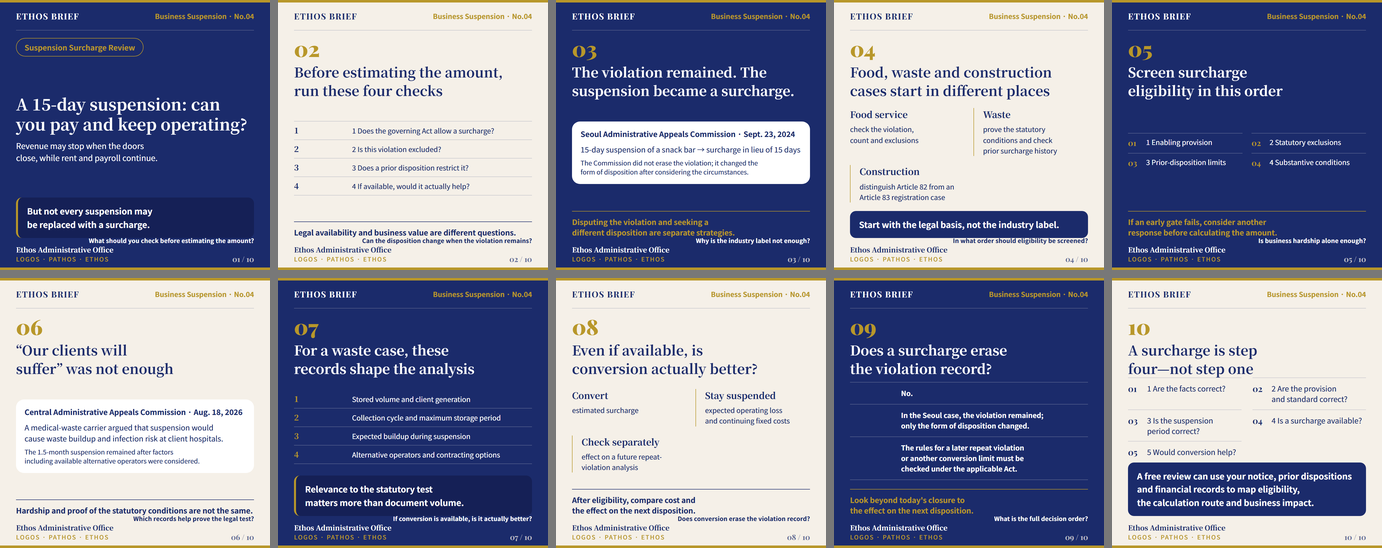
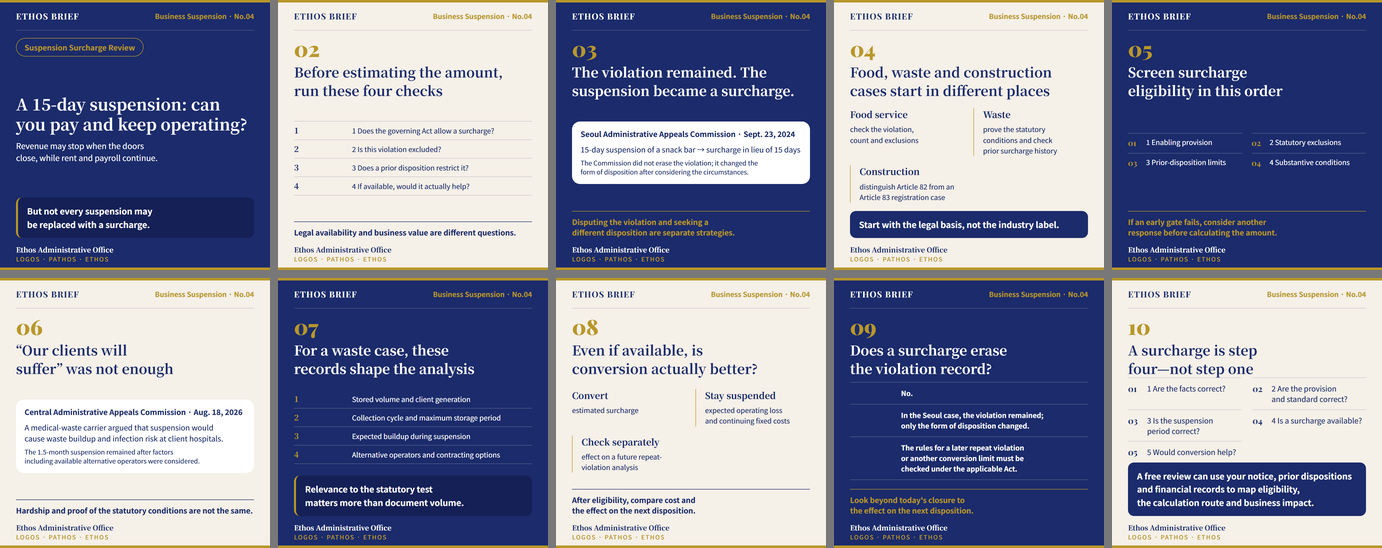
fix: hide card previews and page counts

diff --git a/content/SUSPENSION-SURCHARGE-04/ko/card_02.html b/content/SUSPENSION-SURCHARGE-04/ko/card_02.html
@@ -14,7 +14,7 @@
     <div class="z-main" data-zone="main"><div class="thresholds"><div class="threshold"><div class="threshold-key" data-role="label">1</div><div class="threshold-copy">① 근거법률에 과징금 규정이 있나요?</div></div><div class="threshold"><div class="threshold-key" data-role="label">2</div><div class="threshold-copy">② 이번 위반은 제외대상인가요?</div></div><div class="threshold"><div class="threshold-key" data-role="label">3</div><div class="threshold-copy">③ 과거 처분 때문에 제한되나요?</div></div><div class="threshold"><div class="threshold-key" data-role="label">4</div><div class="threshold-copy">④ 가능하다면 실제로 유리한가요?</div></div></div></div>
     <div class="z-take" data-zone="take"><div class="editorial-close" data-role="takeaway">가능성과 실익은 서로 다른 질문입니다.</div></div>
   </div>
-  <div class="page-turn" data-role="note">위반이 인정돼도 처분형태가 바뀔까요?</div>
-  <div class="ftr"><div class="org" data-frame="org">에토스 행정사사무소</div><div class="tagl" data-frame="tagline">LOGOS · PATHOS · ETHOS</div><div class="pg" data-frame="page">02 / 10</div></div>
+  
+  <div class="ftr"><div class="org" data-frame="org">에토스 행정사사무소</div><div class="tagl" data-frame="tagline">LOGOS · PATHOS · ETHOS</div><div class="pg" data-frame="page" aria-hidden="true"></div></div>
   <div class="gold-bottom" data-frame="gold-bottom"></div>
 </div></body></html>

diff --git a/content/SUSPENSION-SURCHARGE-04/en/card_02.html b/content/SUSPENSION-SURCHARGE-04/en/card_02.html
@@ -14,7 +14,7 @@
     <div class="z-main" data-zone="main"><div class="thresholds"><div class="threshold"><div class="threshold-key" data-role="label">1</div><div class="threshold-copy">1 Does the governing Act allow a surcharge?</div></div><div class="threshold"><div class="threshold-key" data-role="label">2</div><div class="threshold-copy">2 Is this violation excluded?</div></div><div class="threshold"><div class="threshold-key" data-role="label">3</div><div class="threshold-copy">3 Does a prior disposition restrict it?</div></div><div class="threshold"><div class="threshold-key" data-role="label">4</div><div class="threshold-copy">4 If available, would it actually help?</div></div></div></div>
     <div class="z-take" data-zone="take"><div class="editorial-close" data-role="takeaway">Legal availability and business value are different questions.</div></div>
   </div>
-  <div class="page-turn" data-role="note">Can the disposition change when the violation remains?</div>
-  <div class="ftr"><div class="org" data-frame="org">Ethos Administrative Office</div><div class="tagl" data-frame="tagline">LOGOS · PATHOS · ETHOS</div><div class="pg" data-frame="page">02 / 10</div></div>
+  
+  <div class="ftr"><div class="org" data-frame="org">Ethos Administrative Office</div><div class="tagl" data-frame="tagline">LOGOS · PATHOS · ETHOS</div><div class="pg" data-frame="page" aria-hidden="true"></div></div>
   <div class="gold-bottom" data-frame="gold-bottom"></div>
 </div></body></html>

diff --git a/content/SUSPENSION-SURCHARGE-04/en/card_07.html b/content/SUSPENSION-SURCHARGE-04/en/card_07.html
@@ -14,7 +14,7 @@
     <div class="z-main" data-zone="main"><div class="thresholds"><div class="threshold"><div class="threshold-key" data-role="label">1</div><div class="threshold-copy">Stored volume and client generation</div></div><div class="threshold"><div class="threshold-key" data-role="label">2</div><div class="threshold-copy">Collection cycle and maximum storage period</div></div><div class="threshold"><div class="threshold-key" data-role="label">3</div><div class="threshold-copy">Expected buildup during suspension</div></div><div class="threshold"><div class="threshold-key" data-role="label">4</div><div class="threshold-copy">Alternative operators and contracting options</div></div></div></div>
     <div class="z-take" data-zone="take"><div class="take" data-role="takeaway">Relevance to the statutory test matters more than document volume.</div></div>
   </div>
-  <div class="page-turn" data-role="note">If conversion is available, is it actually better?</div>
-  <div class="ftr"><div class="org" data-frame="org">Ethos Administrative Office</div><div class="tagl" data-frame="tagline">LOGOS · PATHOS · ETHOS</div><div class="pg" data-frame="page">07 / 10</div></div>
+  
+  <div class="ftr"><div class="org" data-frame="org">Ethos Administrative Office</div><div class="tagl" data-frame="tagline">LOGOS · PATHOS · ETHOS</div><div class="pg" data-frame="page" aria-hidden="true"></div></div>
   <div class="gold-bottom" data-frame="gold-bottom"></div>
 </div></body></html>

diff --git a/content/SUSPENSION-SURCHARGE-04/ko/card_09.html b/content/SUSPENSION-SURCHARGE-04/ko/card_09.html
@@ -14,7 +14,7 @@
     <div class="z-main" data-zone="main"><div class="rule-list"><div class="rule-item"><div class="rule-key" data-role="subheading"></div><div class="rule-copy">그렇지 않습니다.</div></div><div class="rule-item"><div class="rule-key" data-role="subheading"></div><div class="rule-copy">서울 사건에서도 위반사실은 인정됐고, 달라진 것은 처분형태였습니다.</div></div><div class="rule-item"><div class="rule-key" data-role="subheading"></div><div class="rule-copy">같은 위반이 다시 생겼을 때의 처분기준과 전환 제한은 해당 법률에 따라 따로 확인해야 합니다.</div></div></div></div>
     <div class="z-take" data-zone="take"><div class="editorial-close" data-role="takeaway">당장의 영업정지뿐 아니라 다음 처분에 미칠 영향까지 보세요.</div></div>
   </div>
-  <div class="page-turn" data-role="note">최종 결정은 어떤 순서로 해야 할까요?</div>
-  <div class="ftr"><div class="org" data-frame="org">에토스 행정사사무소</div><div class="tagl" data-frame="tagline">LOGOS · PATHOS · ETHOS</div><div class="pg" data-frame="page">09 / 10</div></div>
+  
+  <div class="ftr"><div class="org" data-frame="org">에토스 행정사사무소</div><div class="tagl" data-frame="tagline">LOGOS · PATHOS · ETHOS</div><div class="pg" data-frame="page" aria-hidden="true"></div></div>
   <div class="gold-bottom" data-frame="gold-bottom"></div>
 </div></body></html>

diff --git a/content/SUSPENSION-SURCHARGE-04/ko/card_07.html b/content/SUSPENSION-SURCHARGE-04/ko/card_07.html
@@ -14,7 +14,7 @@
     <div class="z-main" data-zone="main"><div class="thresholds"><div class="threshold"><div class="threshold-key" data-role="label">1</div><div class="threshold-copy">보관량·거래처별 발생량</div></div><div class="threshold"><div class="threshold-key" data-role="label">2</div><div class="threshold-copy">반출주기·최대 보관기간</div></div><div class="threshold"><div class="threshold-key" data-role="label">3</div><div class="threshold-copy">영업정지 중 예상 적체량</div></div><div class="threshold"><div class="threshold-key" data-role="label">4</div><div class="threshold-copy">대체업체·대체계약 가능성</div></div></div></div>
     <div class="z-take" data-zone="take"><div class="take" data-role="takeaway">자료의 양보다 법정 요건과 연결되는지가 중요합니다.</div></div>
   </div>
-  <div class="page-turn" data-role="note">전환할 수 있으면 정말 유리할까요?</div>
-  <div class="ftr"><div class="org" data-frame="org">에토스 행정사사무소</div><div class="tagl" data-frame="tagline">LOGOS · PATHOS · ETHOS</div><div class="pg" data-frame="page">07 / 10</div></div>
+  
+  <div class="ftr"><div class="org" data-frame="org">에토스 행정사사무소</div><div class="tagl" data-frame="tagline">LOGOS · PATHOS · ETHOS</div><div class="pg" data-frame="page" aria-hidden="true"></div></div>
   <div class="gold-bottom" data-frame="gold-bottom"></div>
 </div></body></html>

diff --git a/content/SUSPENSION-SURCHARGE-04/ko/card_04.html b/content/SUSPENSION-SURCHARGE-04/ko/card_04.html
@@ -14,7 +14,7 @@
     <div class="z-main" data-zone="main"><div class="split"><div class="split-col"><div class="split-title" data-role="subheading">음식점</div><div class="split-copy">과징금 규정이 있어도 위반유형·차수·제외대상을 확인</div></div><div class="split-col"><div class="split-title" data-role="subheading">폐기물</div><div class="split-copy">법정 전환요건과 과거 과징금 처분까지 확인</div></div><div class="split-col"><div class="split-title" data-role="subheading">건설업</div><div class="split-copy">제82조 처분인지 제83조 등록기준 문제인지 구분</div></div></div></div>
     <div class="z-take" data-zone="take"><div class="take" data-role="takeaway">업종명보다 처분근거 조항을 먼저 보세요.</div></div>
   </div>
-  <div class="page-turn" data-role="note">전환 가능성은 어떤 순서로 걸러낼까요?</div>
-  <div class="ftr"><div class="org" data-frame="org">에토스 행정사사무소</div><div class="tagl" data-frame="tagline">LOGOS · PATHOS · ETHOS</div><div class="pg" data-frame="page">04 / 10</div></div>
+  
+  <div class="ftr"><div class="org" data-frame="org">에토스 행정사사무소</div><div class="tagl" data-frame="tagline">LOGOS · PATHOS · ETHOS</div><div class="pg" data-frame="page" aria-hidden="true"></div></div>
   <div class="gold-bottom" data-frame="gold-bottom"></div>
 </div></body></html>

diff --git a/content/SUSPENSION-SURCHARGE-04/ko/card_05.html b/content/SUSPENSION-SURCHARGE-04/ko/card_05.html
@@ -14,7 +14,7 @@
     <div class="z-main" data-zone="main"><div class="process-steps"><div class="process-step"><div class="process-num" data-decor>01</div><div class="process-copy">1 근거 규정</div></div><div class="process-step"><div class="process-num" data-decor>02</div><div class="process-copy">2 제외대상</div></div><div class="process-step"><div class="process-num" data-decor>03</div><div class="process-copy">3 과거 처분 제한</div></div><div class="process-step"><div class="process-num" data-decor>04</div><div class="process-copy">4 법정 실질요건</div></div></div></div>
     <div class="z-take" data-zone="take"><div class="editorial-close" data-role="takeaway">앞 단계에서 막히면 금액 계산보다 다른 대응방향을 먼저 검토합니다.</div></div>
   </div>
-  <div class="page-turn" data-role="note">손해를 주장하는 것만으로 충분할까요?</div>
-  <div class="ftr"><div class="org" data-frame="org">에토스 행정사사무소</div><div class="tagl" data-frame="tagline">LOGOS · PATHOS · ETHOS</div><div class="pg" data-frame="page">05 / 10</div></div>
+  
+  <div class="ftr"><div class="org" data-frame="org">에토스 행정사사무소</div><div class="tagl" data-frame="tagline">LOGOS · PATHOS · ETHOS</div><div class="pg" data-frame="page" aria-hidden="true"></div></div>
   <div class="gold-bottom" data-frame="gold-bottom"></div>
 </div></body></html>

diff --git a/content/SUSPENSION-SURCHARGE-04/en/card_05.html b/content/SUSPENSION-SURCHARGE-04/en/card_05.html
@@ -14,7 +14,7 @@
     <div class="z-main" data-zone="main"><div class="process-steps"><div class="process-step"><div class="process-num" data-decor>01</div><div class="process-copy">1 Enabling provision</div></div><div class="process-step"><div class="process-num" data-decor>02</div><div class="process-copy">2 Statutory exclusions</div></div><div class="process-step"><div class="process-num" data-decor>03</div><div class="process-copy">3 Prior-disposition limits</div></div><div class="process-step"><div class="process-num" data-decor>04</div><div class="process-copy">4 Substantive conditions</div></div></div></div>
     <div class="z-take" data-zone="take"><div class="editorial-close" data-role="takeaway">If an early gate fails, consider another response before calculating the amount.</div></div>
   </div>
-  <div class="page-turn" data-role="note">Is business hardship alone enough?</div>
-  <div class="ftr"><div class="org" data-frame="org">Ethos Administrative Office</div><div class="tagl" data-frame="tagline">LOGOS · PATHOS · ETHOS</div><div class="pg" data-frame="page">05 / 10</div></div>
+  
+  <div class="ftr"><div class="org" data-frame="org">Ethos Administrative Office</div><div class="tagl" data-frame="tagline">LOGOS · PATHOS · ETHOS</div><div class="pg" data-frame="page" aria-hidden="true"></div></div>
   <div class="gold-bottom" data-frame="gold-bottom"></div>
 </div></body></html>

diff --git a/content/SUSPENSION-SURCHARGE-04/ko/card_08.html b/content/SUSPENSION-SURCHARGE-04/ko/card_08.html
@@ -14,7 +14,7 @@
     <div class="z-main" data-zone="main"><div class="split"><div class="split-col"><div class="split-title" data-role="subheading">과징금 전환 시</div><div class="split-copy">예상 과징금</div></div><div class="split-col"><div class="split-title" data-role="subheading">영업정지 유지 시</div><div class="split-copy">예상 영업손실 및 계속 나가는 고정비</div></div><div class="split-col"><div class="split-title" data-role="subheading">별도 확인</div><div class="split-copy">향후 반복위반 판단에 미칠 영향</div></div></div></div>
     <div class="z-take" data-zone="take"><div class="editorial-close" data-role="takeaway">가능하다는 결론 뒤에 비용과 다음 처분까지 비교하세요.</div></div>
   </div>
-  <div class="page-turn" data-role="note">과징금으로 바뀌면 위반기록도 없어질까요?</div>
-  <div class="ftr"><div class="org" data-frame="org">에토스 행정사사무소</div><div class="tagl" data-frame="tagline">LOGOS · PATHOS · ETHOS</div><div class="pg" data-frame="page">08 / 10</div></div>
+  
+  <div class="ftr"><div class="org" data-frame="org">에토스 행정사사무소</div><div class="tagl" data-frame="tagline">LOGOS · PATHOS · ETHOS</div><div class="pg" data-frame="page" aria-hidden="true"></div></div>
   <div class="gold-bottom" data-frame="gold-bottom"></div>
 </div></body></html>

diff --git a/content/SUSPENSION-SURCHARGE-04/en/card_09.html b/content/SUSPENSION-SURCHARGE-04/en/card_09.html
@@ -14,7 +14,7 @@
     <div class="z-main" data-zone="main"><div class="rule-list"><div class="rule-item"><div class="rule-key" data-role="subheading"></div><div class="rule-copy">No.</div></div><div class="rule-item"><div class="rule-key" data-role="subheading"></div><div class="rule-copy">In the Seoul case, the violation remained; only the form of disposition changed.</div></div><div class="rule-item"><div class="rule-key" data-role="subheading"></div><div class="rule-copy">The rules for a later repeat violation or another conversion limit must be checked under the applicable Act.</div></div></div></div>
     <div class="z-take" data-zone="take"><div class="editorial-close" data-role="takeaway">Look beyond today&#x27;s closure to the effect on the next disposition.</div></div>
   </div>
-  <div class="page-turn" data-role="note">What is the full decision order?</div>
-  <div class="ftr"><div class="org" data-frame="org">Ethos Administrative Office</div><div class="tagl" data-frame="tagline">LOGOS · PATHOS · ETHOS</div><div class="pg" data-frame="page">09 / 10</div></div>
+  
+  <div class="ftr"><div class="org" data-frame="org">Ethos Administrative Office</div><div class="tagl" data-frame="tagline">LOGOS · PATHOS · ETHOS</div><div class="pg" data-frame="page" aria-hidden="true"></div></div>
   <div class="gold-bottom" data-frame="gold-bottom"></div>
 </div></body></html>

diff --git a/content/SUSPENSION-SURCHARGE-04/en/card_04.html b/content/SUSPENSION-SURCHARGE-04/en/card_04.html
@@ -14,7 +14,7 @@
     <div class="z-main" data-zone="main"><div class="split"><div class="split-col"><div class="split-title" data-role="subheading">Food service</div><div class="split-copy">check the violation, count and exclusions</div></div><div class="split-col"><div class="split-title" data-role="subheading">Waste</div><div class="split-copy">prove the statutory conditions and check prior surcharge history</div></div><div class="split-col"><div class="split-title" data-role="subheading">Construction</div><div class="split-copy">distinguish Article 82 from an Article 83 registration case</div></div></div></div>
     <div class="z-take" data-zone="take"><div class="take" data-role="takeaway">Start with the legal basis, not the industry label.</div></div>
   </div>
-  <div class="page-turn" data-role="note">In what order should eligibility be screened?</div>
-  <div class="ftr"><div class="org" data-frame="org">Ethos Administrative Office</div><div class="tagl" data-frame="tagline">LOGOS · PATHOS · ETHOS</div><div class="pg" data-frame="page">04 / 10</div></div>
+  
+  <div class="ftr"><div class="org" data-frame="org">Ethos Administrative Office</div><div class="tagl" data-frame="tagline">LOGOS · PATHOS · ETHOS</div><div class="pg" data-frame="page" aria-hidden="true"></div></div>
   <div class="gold-bottom" data-frame="gold-bottom"></div>
 </div></body></html>

diff --git a/content/SUSPENSION-SURCHARGE-04/en/card_08.html b/content/SUSPENSION-SURCHARGE-04/en/card_08.html
@@ -14,7 +14,7 @@
     <div class="z-main" data-zone="main"><div class="split"><div class="split-col"><div class="split-title" data-role="subheading">Convert</div><div class="split-copy">estimated surcharge</div></div><div class="split-col"><div class="split-title" data-role="subheading">Stay suspended</div><div class="split-copy">expected operating loss and continuing fixed costs</div></div><div class="split-col"><div class="split-title" data-role="subheading">Check separately</div><div class="split-copy">effect on a future repeat-violation analysis</div></div></div></div>
     <div class="z-take" data-zone="take"><div class="editorial-close" data-role="takeaway">After eligibility, compare cost and the effect on the next disposition.</div></div>
   </div>
-  <div class="page-turn" data-role="note">Does conversion erase the violation record?</div>
-  <div class="ftr"><div class="org" data-frame="org">Ethos Administrative Office</div><div class="tagl" data-frame="tagline">LOGOS · PATHOS · ETHOS</div><div class="pg" data-frame="page">08 / 10</div></div>
+  
+  <div class="ftr"><div class="org" data-frame="org">Ethos Administrative Office</div><div class="tagl" data-frame="tagline">LOGOS · PATHOS · ETHOS</div><div class="pg" data-frame="page" aria-hidden="true"></div></div>
   <div class="gold-bottom" data-frame="gold-bottom"></div>
 </div></body></html>
